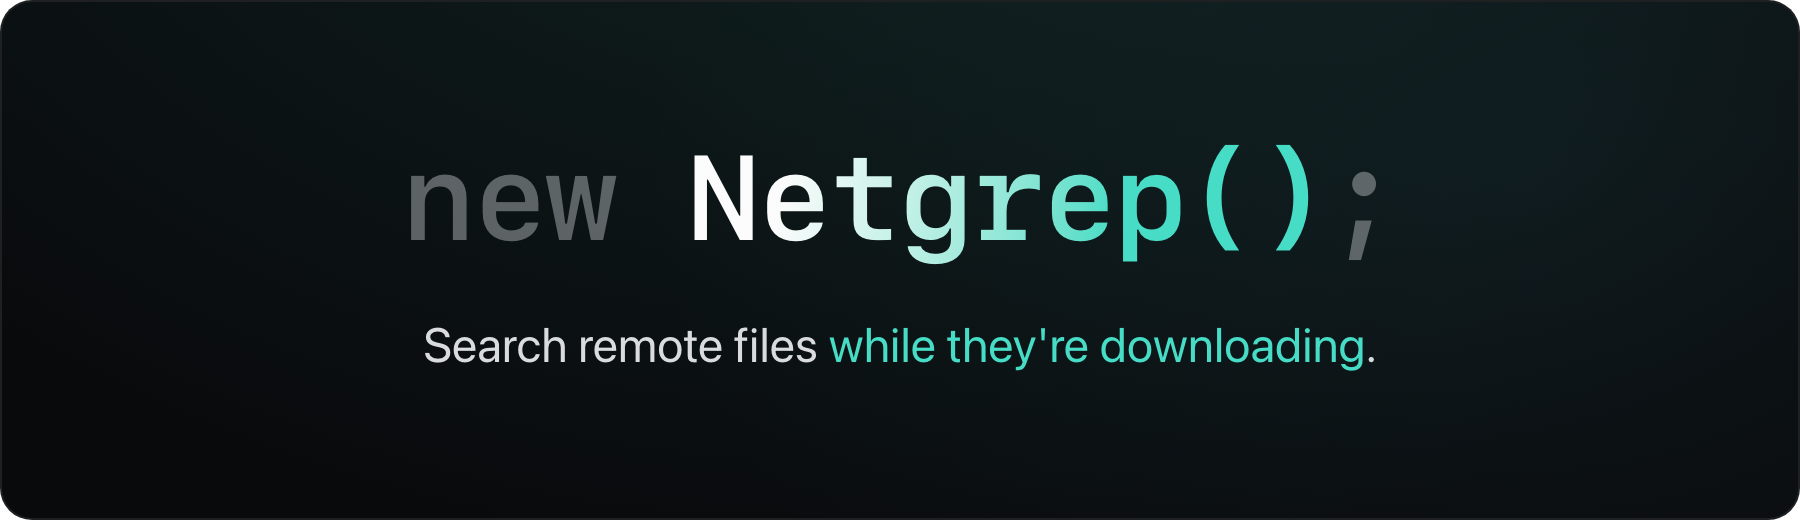
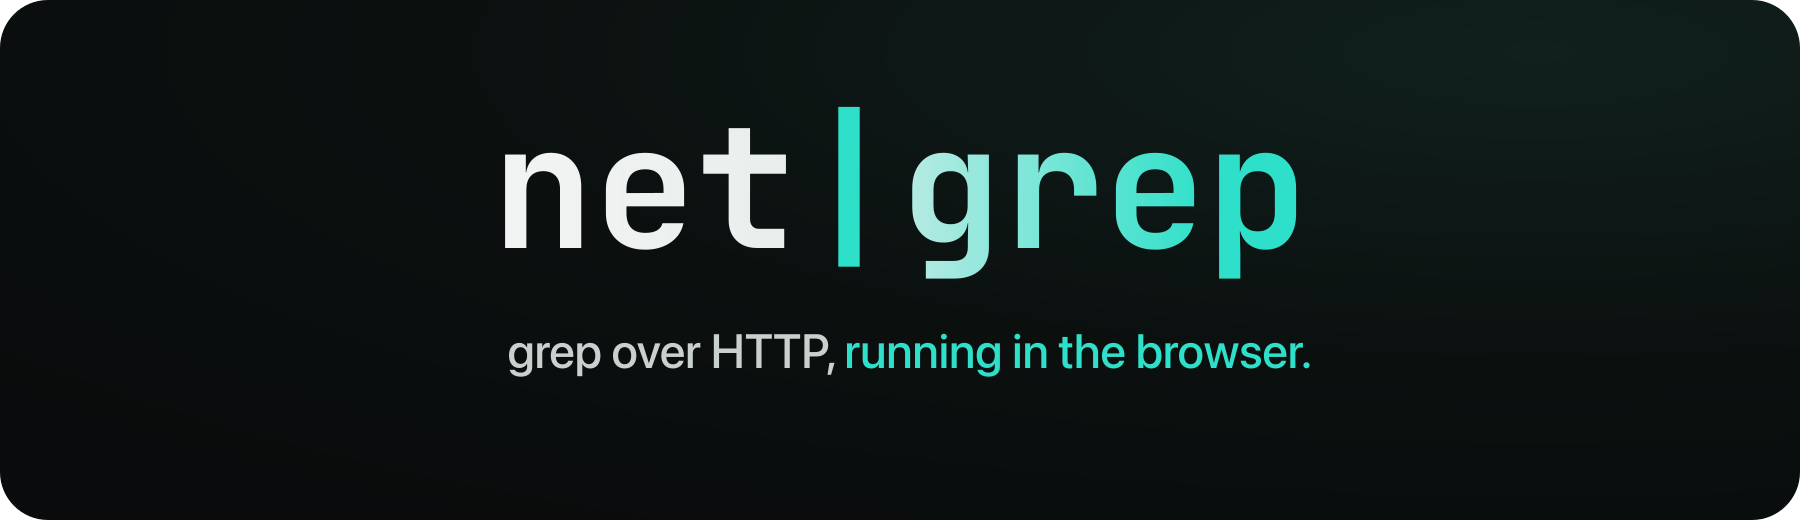
feat(assets): the wordmark becomes net | grep
The API rewrite deleted the class, so `new Netgrep();` stopped being a
true statement about the library. The redrawn artwork sets the name as
`net | grep` — the pipe states the shell heritage instead of the
constructor — and swaps the retired tagline baked into the pixels for
the current lede, "grep over HTTP, running in the browser."

Both PNGs now render from SVG sources committed next to them, and
og-image.jpg is cut from the social preview per the example README's
recipe. Alt texts in the three READMEs and the demo's og:image:alt are
synced to the new artwork, and decision 0025 gains an amendment: the
retired hero line survives nowhere.

diff --git a/packages/example/index.html b/packages/example/index.html
@@ -65,15 +65,13 @@
     <meta property="og:image:width" content="1200" />
     <meta property="og:image:height" content="630" />
     <!--
-      A description of the artwork, not a statement of the project's copy: the
-      quoted line is the retired tagline, still baked into og-image.jpg and
-      assets/header.png. Alt text has to say what the image shows, so it stays
-      until the artwork is redrawn — do not sync it to the current lede while
-      the pixels disagree.
+      A description of the artwork, not a statement of the project's copy. The
+      quoted line matches the pixels of og-image.jpg; if the artwork changes,
+      change this with it.
     -->
     <meta
       property="og:image:alt"
-      content="The netgrep wordmark — new Netgrep(); set in monospace, fading from white into teal — above the line 'Search remote files while they're downloading.', on a dark gradient."
+      content="The netgrep wordmark — net | grep set in monospace, fading from white into teal — above the line 'grep over HTTP, running in the browser.', on a dark gradient."
     />
     <meta property="og:locale" content="en_US" />
 

diff --git a/packages/netgrep/README.md b/packages/netgrep/README.md
@@ -1,5 +1,5 @@
 <!-- Absolute: npm renders this README off GitHub, where a relative path resolves to nothing. -->
-![The netgrep wordmark: new Netgrep(); set in monospace, fading from white into teal on a dark gradient](https://raw.githubusercontent.com/dgopsq/netgrep/main/assets/header.png)
+![The netgrep wordmark: net | grep set in monospace, fading from white into teal on a dark gradient](https://raw.githubusercontent.com/dgopsq/netgrep/main/assets/header.png)
 
 # @netgrep/netgrep
 

diff --git a/packages/search/README.md b/packages/search/README.md
@@ -1,5 +1,5 @@
 <!-- Absolute: npm renders this README off GitHub, where a relative path resolves to nothing. -->
-![The netgrep wordmark: new Netgrep(); set in monospace, fading from white into teal on a dark gradient](https://raw.githubusercontent.com/dgopsq/netgrep/main/assets/header.png)
+![The netgrep wordmark: net | grep set in monospace, fading from white into teal on a dark gradient](https://raw.githubusercontent.com/dgopsq/netgrep/main/assets/header.png)
 
 # @netgrep/search
 

diff --git a/README.md b/README.md
@@ -1,4 +1,4 @@
-![The netgrep wordmark: new Netgrep(); set in monospace, fading from white into teal on a dark gradient](assets/header.png)
+![The netgrep wordmark: net | grep set in monospace, fading from white into teal on a dark gradient](assets/header.png)
 
 # netgrep
 
